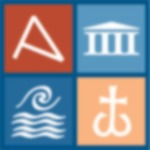
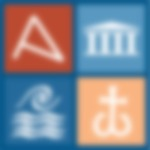
all

diff --git a/index.html b/index.html
@@ -15,7 +15,7 @@
      color: blue
      }
     body{
-    background-image: url('ime_blur.JPG');
+    background-image: url('ime_web.jpg');
     }
     </style>
   </head>
